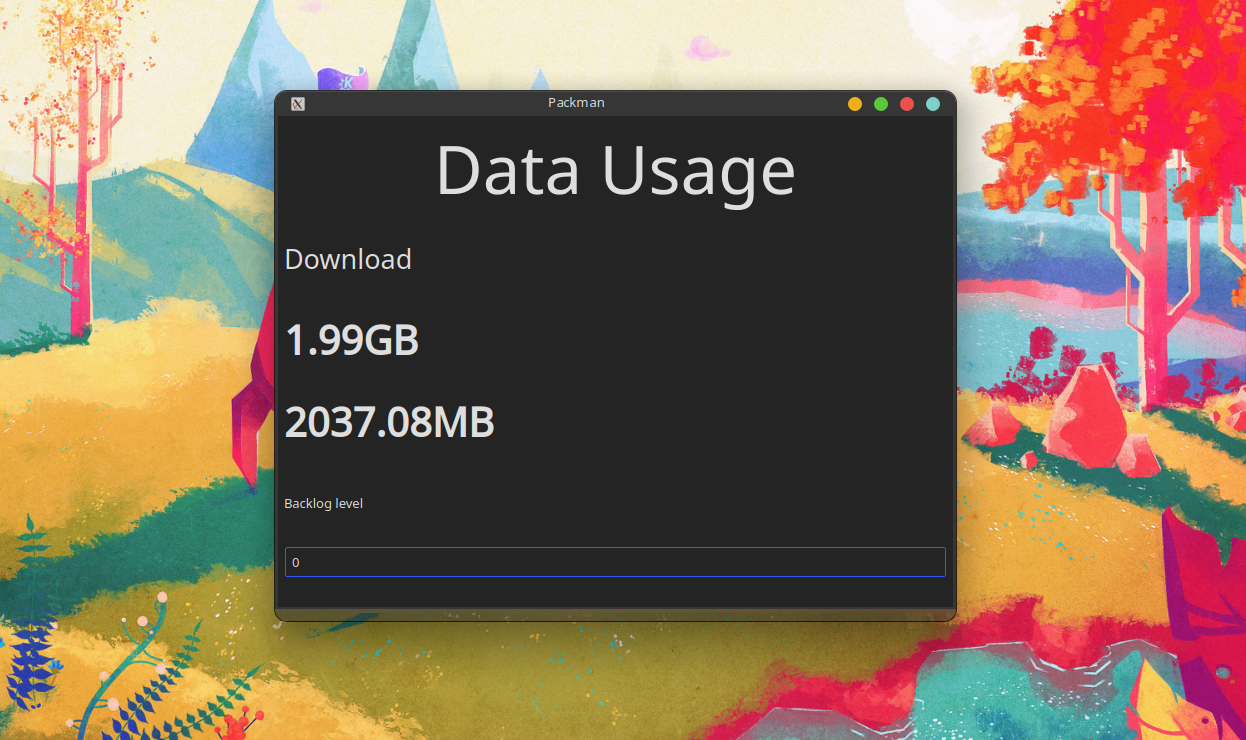
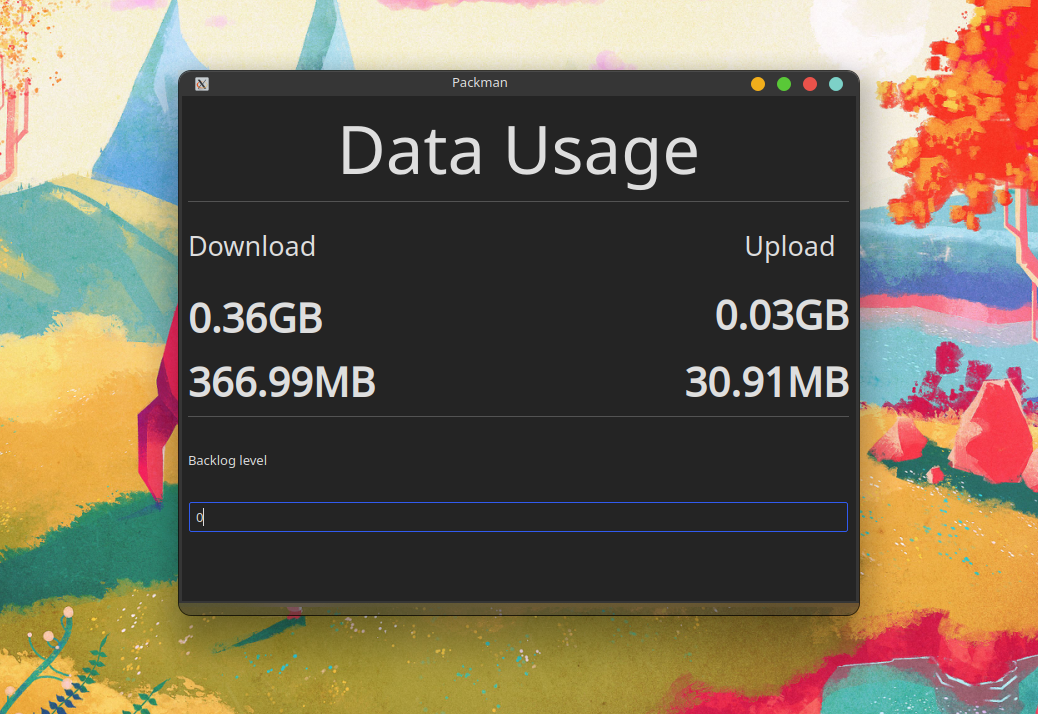
update README and images

diff --git a/packman/gui/mainwindow.py b/packman/gui/mainwindow.py
@@ -1,0 +1,134 @@
+# -*- coding: utf-8 -*-
+
+# Form implementation generated from reading ui file 'packman/gui/ui/mainwindow.ui'
+#
+# Created by: PyQt5 UI code generator 5.14.1
+#
+# WARNING! All changes made in this file will be lost!
+
+
+from PyQt5 import QtCore, QtGui, QtWidgets
+
+
+class Ui_MainWindow(object):
+    def setupUi(self, MainWindow):
+        MainWindow.setObjectName("MainWindow")
+        MainWindow.resize(674, 505)
+        sizePolicy = QtWidgets.QSizePolicy(QtWidgets.QSizePolicy.Fixed, QtWidgets.QSizePolicy.Fixed)
+        sizePolicy.setHorizontalStretch(0)
+        sizePolicy.setVerticalStretch(0)
+        sizePolicy.setHeightForWidth(MainWindow.sizePolicy().hasHeightForWidth())
+        MainWindow.setSizePolicy(sizePolicy)
+        MainWindow.setMaximumSize(QtCore.QSize(674, 505))
+        self.centralwidget = QtWidgets.QWidget(MainWindow)
+        self.centralwidget.setObjectName("centralwidget")
+        self.layoutWidget = QtWidgets.QWidget(self.centralwidget)
+        self.layoutWidget.setGeometry(QtCore.QRect(6, 6, 661, 431))
+        self.layoutWidget.setObjectName("layoutWidget")
+        self.verticalLayout = QtWidgets.QVBoxLayout(self.layoutWidget)
+        self.verticalLayout.setContentsMargins(0, 0, 0, 0)
+        self.verticalLayout.setObjectName("verticalLayout")
+        self.data = QtWidgets.QLabel(self.layoutWidget)
+        font = QtGui.QFont()
+        font.setPointSize(50)
+        self.data.setFont(font)
+        self.data.setAlignment(QtCore.Qt.AlignCenter)
+        self.data.setObjectName("data")
+        self.verticalLayout.addWidget(self.data)
+        self.line = QtWidgets.QFrame(self.layoutWidget)
+        self.line.setFrameShadow(QtWidgets.QFrame.Raised)
+        self.line.setLineWidth(1)
+        self.line.setFrameShape(QtWidgets.QFrame.HLine)
+        self.line.setObjectName("line")
+        self.verticalLayout.addWidget(self.line)
+        self.label = QtWidgets.QLabel(self.layoutWidget)
+        font = QtGui.QFont()
+        font.setPointSize(20)
+        self.label.setFont(font)
+        self.label.setObjectName("label")
+        self.verticalLayout.addWidget(self.label)
+        self.gridLayout = QtWidgets.QGridLayout()
+        self.gridLayout.setObjectName("gridLayout")
+        self.val_gb = QtWidgets.QLabel(self.layoutWidget)
+        font = QtGui.QFont()
+        font.setPointSize(30)
+        font.setBold(True)
+        font.setWeight(75)
+        self.val_gb.setFont(font)
+        self.val_gb.setText("")
+        self.val_gb.setObjectName("val_gb")
+        self.gridLayout.addWidget(self.val_gb, 0, 0, 2, 1)
+        self.val_mb = QtWidgets.QLabel(self.layoutWidget)
+        font = QtGui.QFont()
+        font.setPointSize(30)
+        font.setBold(True)
+        font.setWeight(75)
+        self.val_mb.setFont(font)
+        self.val_mb.setText("")
+        self.val_mb.setObjectName("val_mb")
+        self.gridLayout.addWidget(self.val_mb, 2, 0, 1, 1)
+        self.val_mb_up = QtWidgets.QLabel(self.layoutWidget)
+        font = QtGui.QFont()
+        font.setPointSize(30)
+        font.setBold(True)
+        font.setWeight(75)
+        self.val_mb_up.setFont(font)
+        self.val_mb_up.setText("")
+        self.val_mb_up.setAlignment(QtCore.Qt.AlignRight|QtCore.Qt.AlignTrailing|QtCore.Qt.AlignVCenter)
+        self.val_mb_up.setObjectName("val_mb_up")
+        self.gridLayout.addWidget(self.val_mb_up, 2, 2, 1, 1)
+        self.val_gb_up = QtWidgets.QLabel(self.layoutWidget)
+        font = QtGui.QFont()
+        font.setPointSize(30)
+        font.setBold(True)
+        font.setWeight(75)
+        self.val_gb_up.setFont(font)
+        self.val_gb_up.setText("")
+        self.val_gb_up.setAlignment(QtCore.Qt.AlignRight|QtCore.Qt.AlignTrailing|QtCore.Qt.AlignVCenter)
+        self.val_gb_up.setObjectName("val_gb_up")
+        self.gridLayout.addWidget(self.val_gb_up, 0, 2, 1, 1)
+        self.verticalLayout.addLayout(self.gridLayout)
+        self.line_2 = QtWidgets.QFrame(self.layoutWidget)
+        self.line_2.setFrameShape(QtWidgets.QFrame.HLine)
+        self.line_2.setFrameShadow(QtWidgets.QFrame.Sunken)
+        self.line_2.setObjectName("line_2")
+        self.verticalLayout.addWidget(self.line_2)
+        self.label_2 = QtWidgets.QLabel(self.layoutWidget)
+        self.label_2.setObjectName("label_2")
+        self.verticalLayout.addWidget(self.label_2)
+        self.backlog = QtWidgets.QLineEdit(self.layoutWidget)
+        self.backlog.setObjectName("backlog")
+        self.verticalLayout.addWidget(self.backlog)
+        MainWindow.setCentralWidget(self.centralwidget)
+        self.menubar = QtWidgets.QMenuBar(MainWindow)
+        self.menubar.setGeometry(QtCore.QRect(0, 0, 674, 30))
+        self.menubar.setObjectName("menubar")
+        self.menuFile = QtWidgets.QMenu(self.menubar)
+        self.menuFile.setObjectName("menuFile")
+        MainWindow.setMenuBar(self.menubar)
+        self.statusbar = QtWidgets.QStatusBar(MainWindow)
+        self.statusbar.setObjectName("statusbar")
+        MainWindow.setStatusBar(self.statusbar)
+        self.actionStatistics = QtWidgets.QAction(MainWindow)
+        self.actionStatistics.setObjectName("actionStatistics")
+        self.hide_action = QtWidgets.QAction(MainWindow)
+        self.hide_action.setCheckable(True)
+        self.hide_action.setObjectName("hide_action")
+        self.menuFile.addAction(self.actionStatistics)
+        self.menuFile.addAction(self.hide_action)
+        self.menubar.addAction(self.menuFile.menuAction())
+
+        self.retranslateUi(MainWindow)
+        QtCore.QMetaObject.connectSlotsByName(MainWindow)
+
+    def retranslateUi(self, MainWindow):
+        _translate = QtCore.QCoreApplication.translate
+        MainWindow.setWindowTitle(_translate("MainWindow", "Packman"))
+        self.data.setText(_translate("MainWindow", "Data Usage"))
+        self.label.setText(_translate("MainWindow", "Download                                                             Upload"))
+        self.label_2.setText(_translate("MainWindow", "Backlog level"))
+        self.backlog.setWhatsThis(_translate("MainWindow", "size to subtract from data"))
+        self.backlog.setPlaceholderText(_translate("MainWindow", "size"))
+        self.menuFile.setTitle(_translate("MainWindow", "File"))
+        self.actionStatistics.setText(_translate("MainWindow", "Statistics"))
+        self.hide_action.setText(_translate("MainWindow", "Minimize to tray"))

diff --git a/packman/tools/filter.py b/packman/tools/filter.py
@@ -1,6 +1,5 @@
 def to_gb(bytes):
     return round(bytes / 1024 ** 3, 2)
 
-
 def to_mb(bytes):
     return round(bytes / 1024 ** 2, 2)

diff --git a/README.md b/README.md
@@ -2,6 +2,8 @@
 The data usage monitoring GUI for linux nobody decided to make until now
 
 ![preview1](images/preview.png)
+![tray](images/tray.png)
+
 ## Requirements
 `pyqt5`
 
